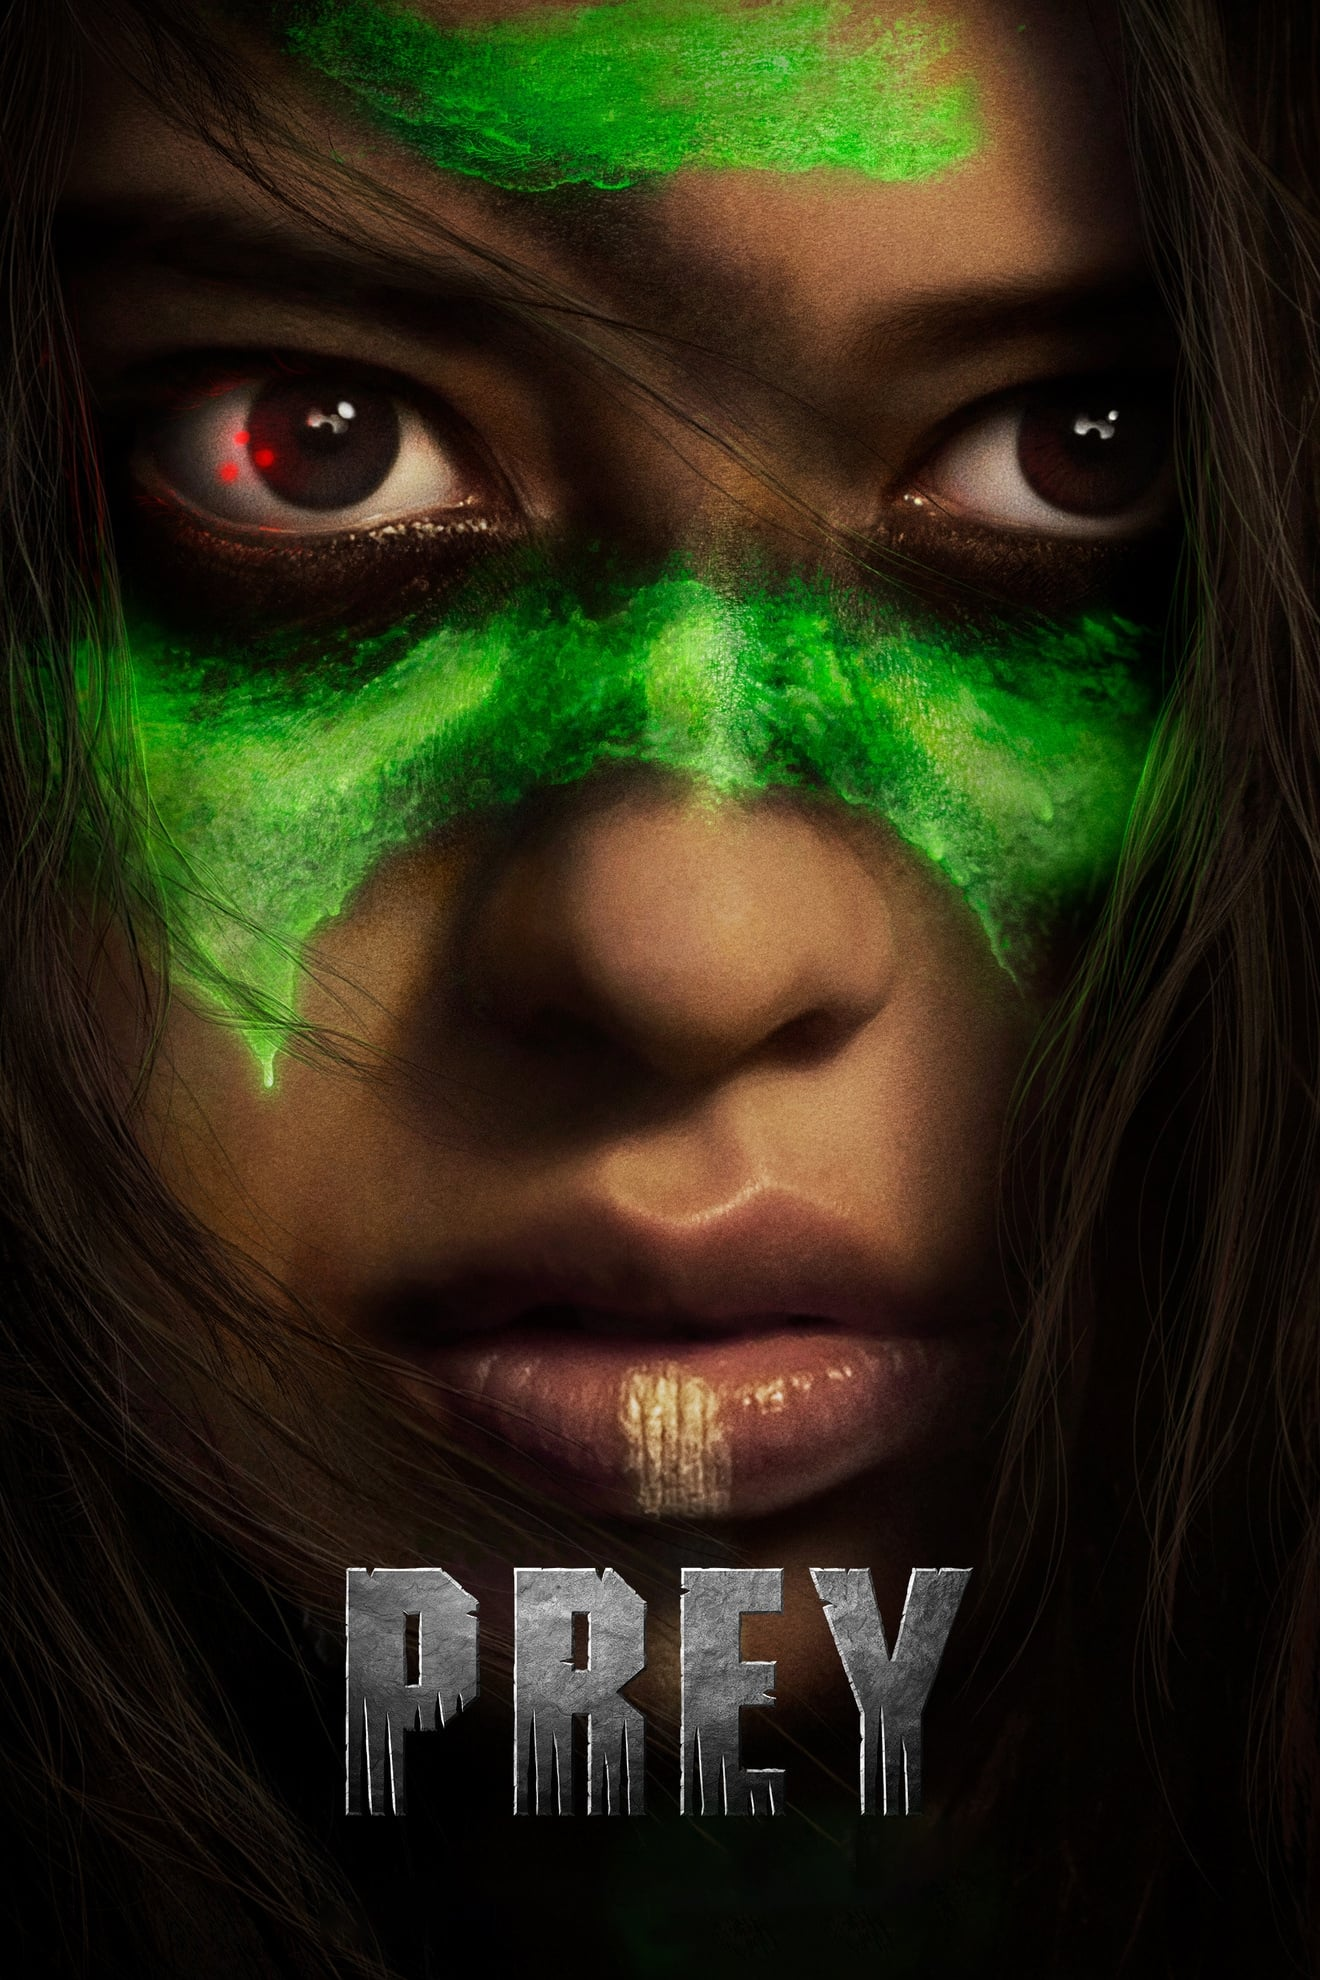
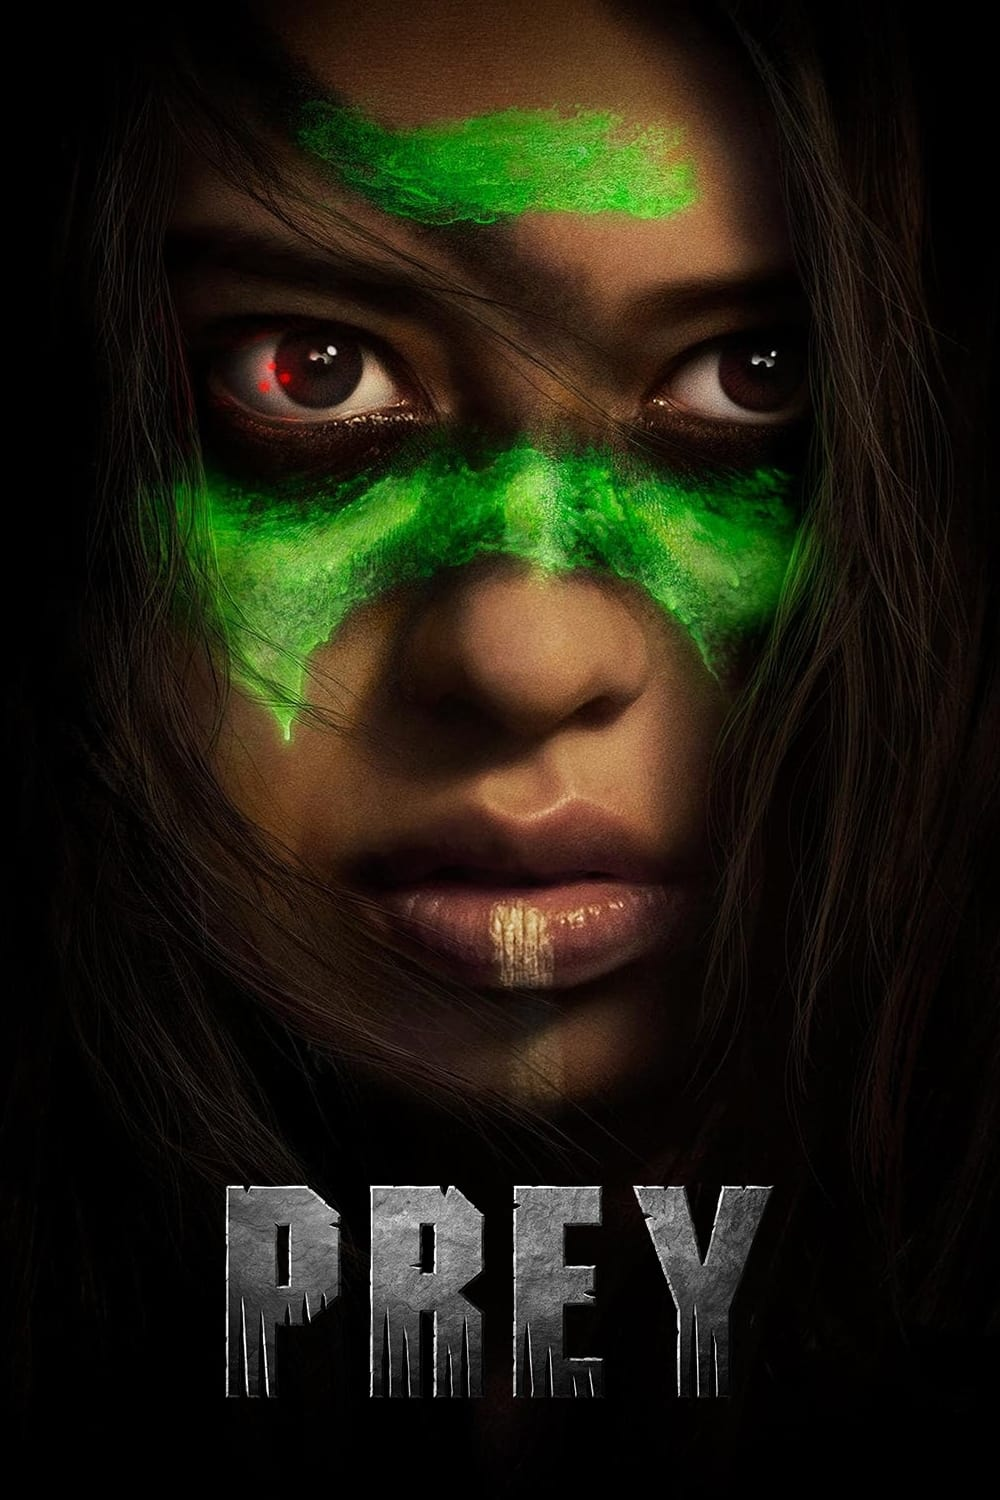
Finally figured out the responsive SwiperJS

diff --git a/components/SiteHero.js b/components/SiteHero.js
@@ -21,16 +21,15 @@ export default function SiteHero() {
         <Swiper
             // Throw kitchen sink at it
             modules={[EffectFade, Autoplay, Pagination, A11y]}
-            autoHeight={true}
             spaceBetween={0}
             slidesPerView={1}
             loop={true}
             effect={"fade"}
             pagination={{ clickable: true }}
-            autoplay={{
-                delay: 5000,
-                disableOnInteraction: true,
-            }}
+            // autoplay={{
+            //     delay: 5000,
+            //     disableOnInteraction: true,
+            // }}
         >
             <SwiperSlide>
                 <div className='swiper-slide-content'>
@@ -49,7 +48,7 @@ export default function SiteHero() {
                     alt='Mad Max (1979) Movie Review'
                     width={1000}
                     height={1500}
-                    layout='responsive'
+                    layout='fill'
                     priority
                 />
             </SwiperSlide>
@@ -70,7 +69,7 @@ export default function SiteHero() {
                     alt='Prey (2022) Movie Review'
                     width={1320}
                     height={1980}
-                    layout='responsive'
+                    layout='fill'
                     priority
                 />
             </SwiperSlide>
@@ -91,7 +90,7 @@ export default function SiteHero() {
                     alt='No Time To Die (2020) Movie Review'
                     width={1000}
                     height={1500}
-                    layout='responsive'
+                    layout='fill'
                     priority
                 />
             </SwiperSlide>
@@ -112,7 +111,7 @@ export default function SiteHero() {
                     alt='Terror on the Prairie (2022) Movie Review'
                     width={1067}
                     height={1600}
-                    layout='responsive'
+                    layout='fill'
                     priority
                 />
             </SwiperSlide>

diff --git a/styles/modules/_hero.scss b/styles/modules/_hero.scss
@@ -15,6 +15,9 @@
                 justify-content: center;
                 align-content: center;
             }
+            img {
+                object-fit: cover;
+            }
         }
     }
     .swiper-pagination {
@@ -22,8 +25,10 @@
             background-color: c.$brand-primary;
             width: 25px;
             height: 25px;
+            opacity: 0.5;
             &.swiper-pagination-bullet-active {
                 border: 2px solid white;
+                opacity: 1;
             }
         }
     }
